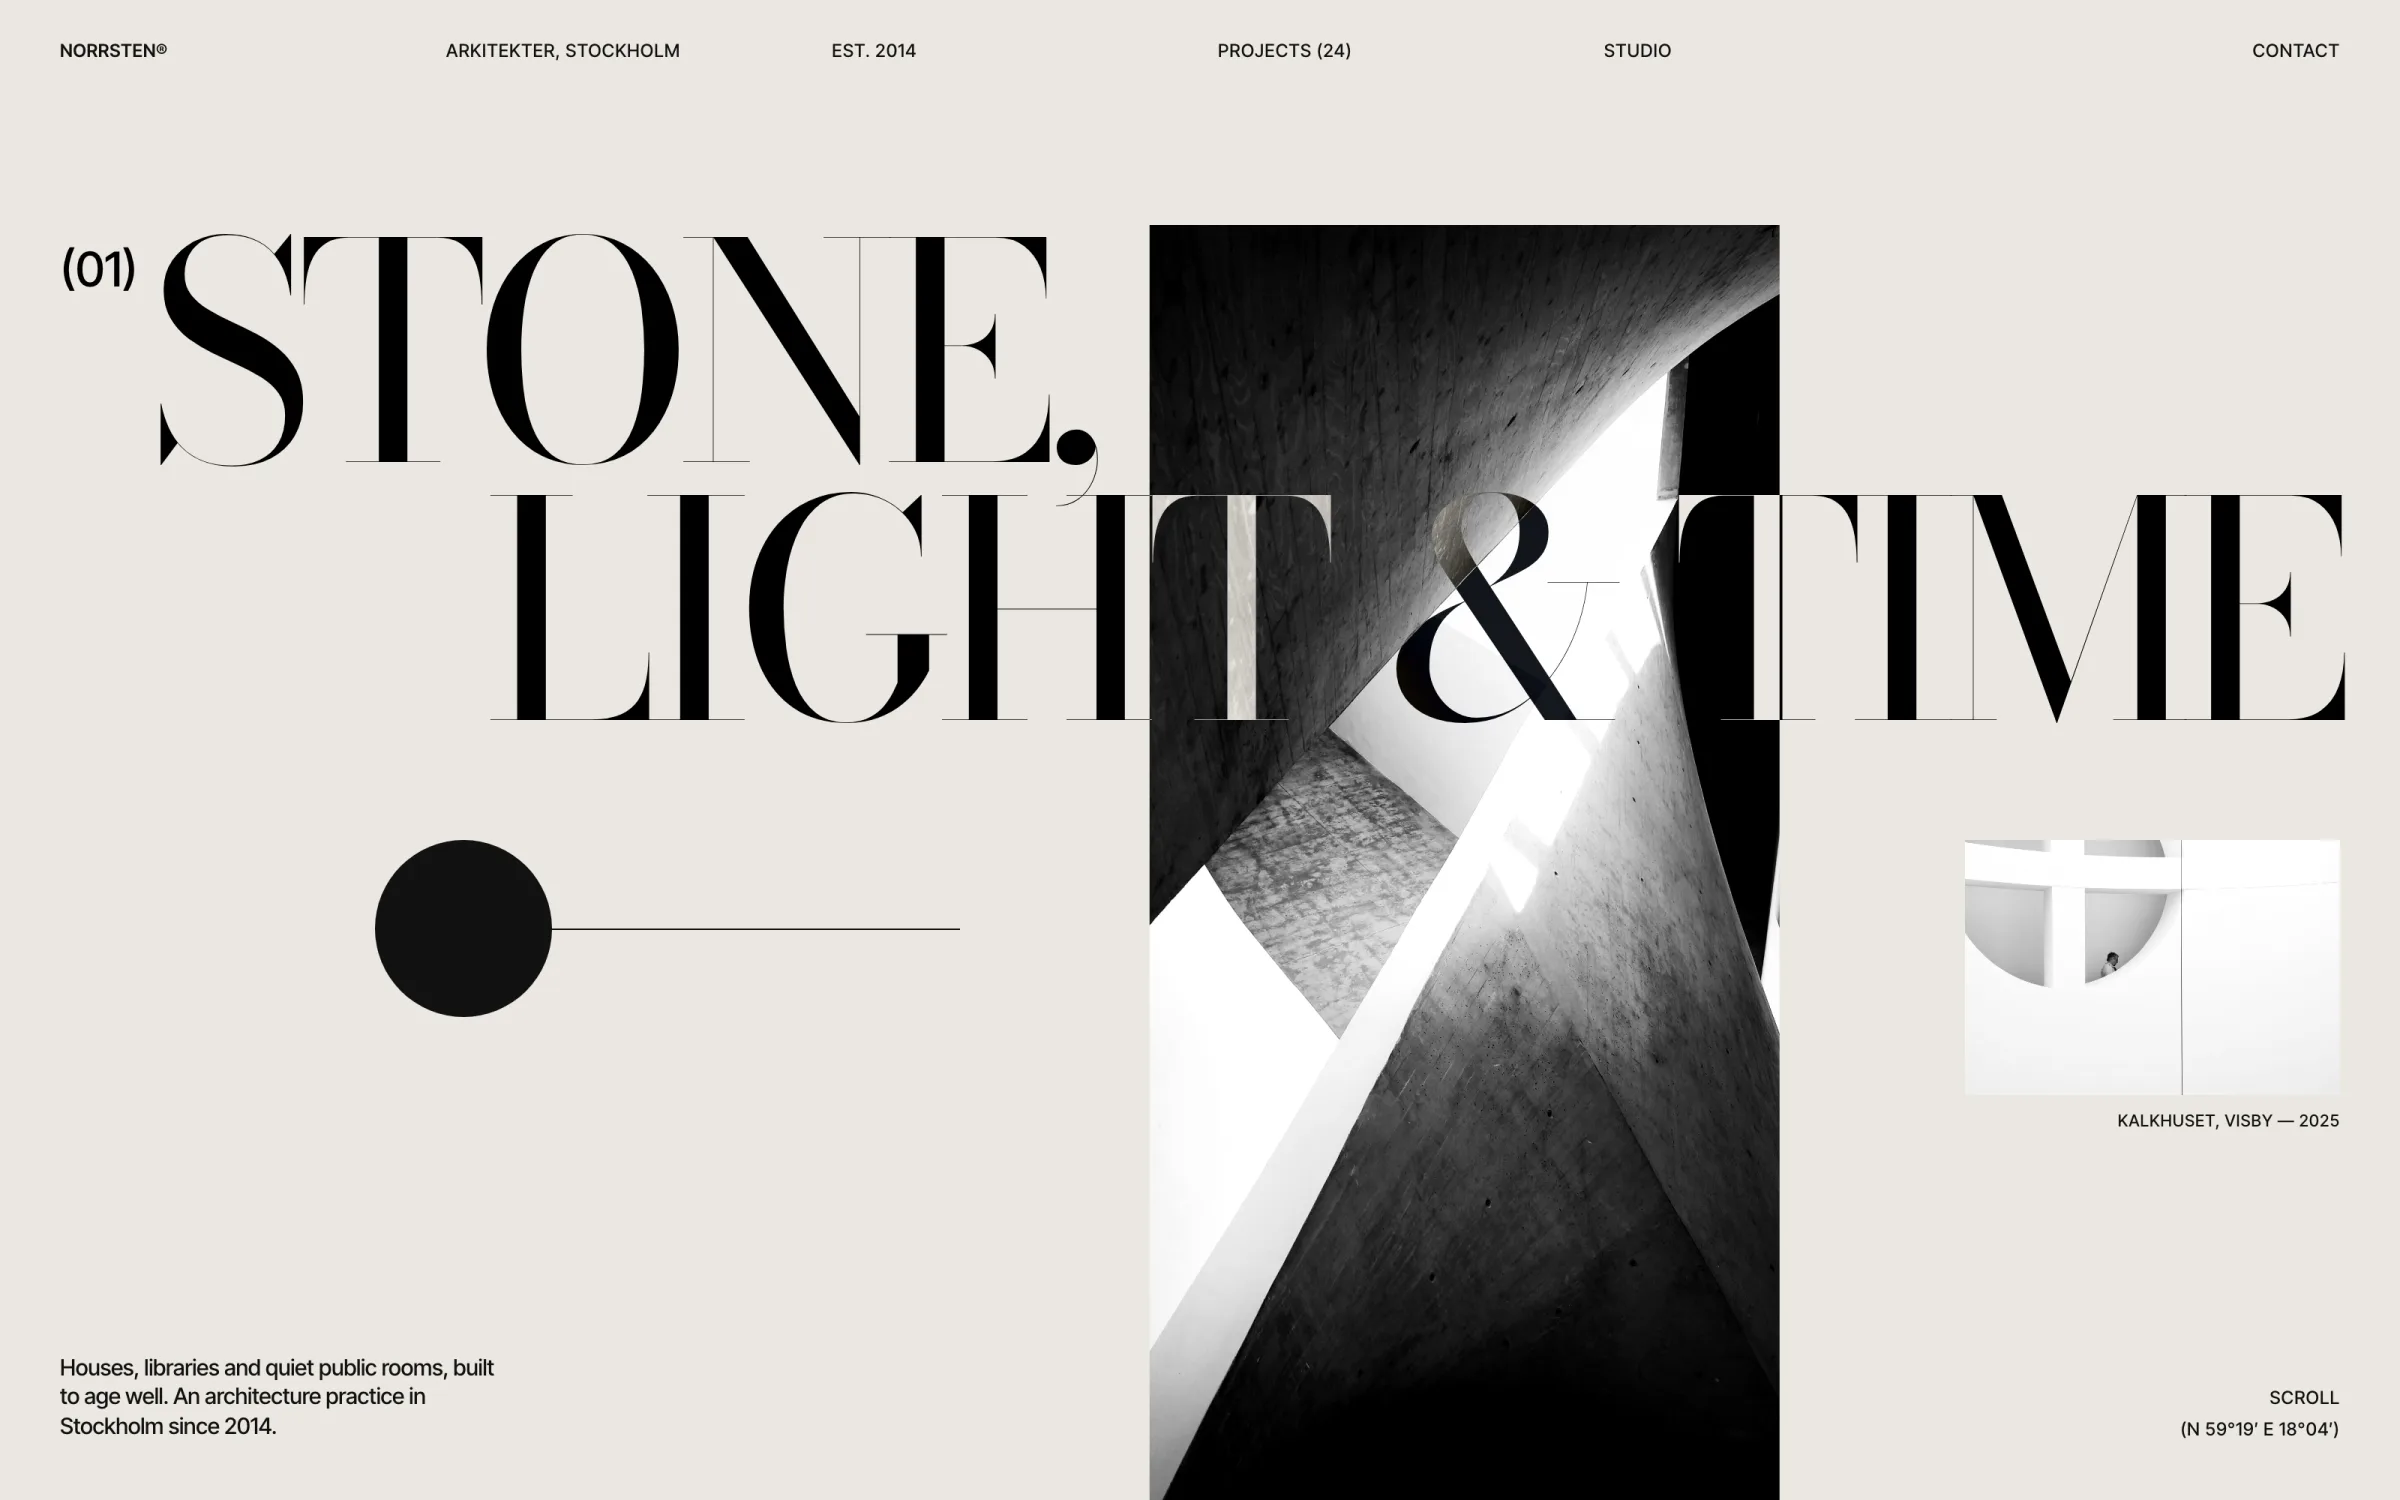
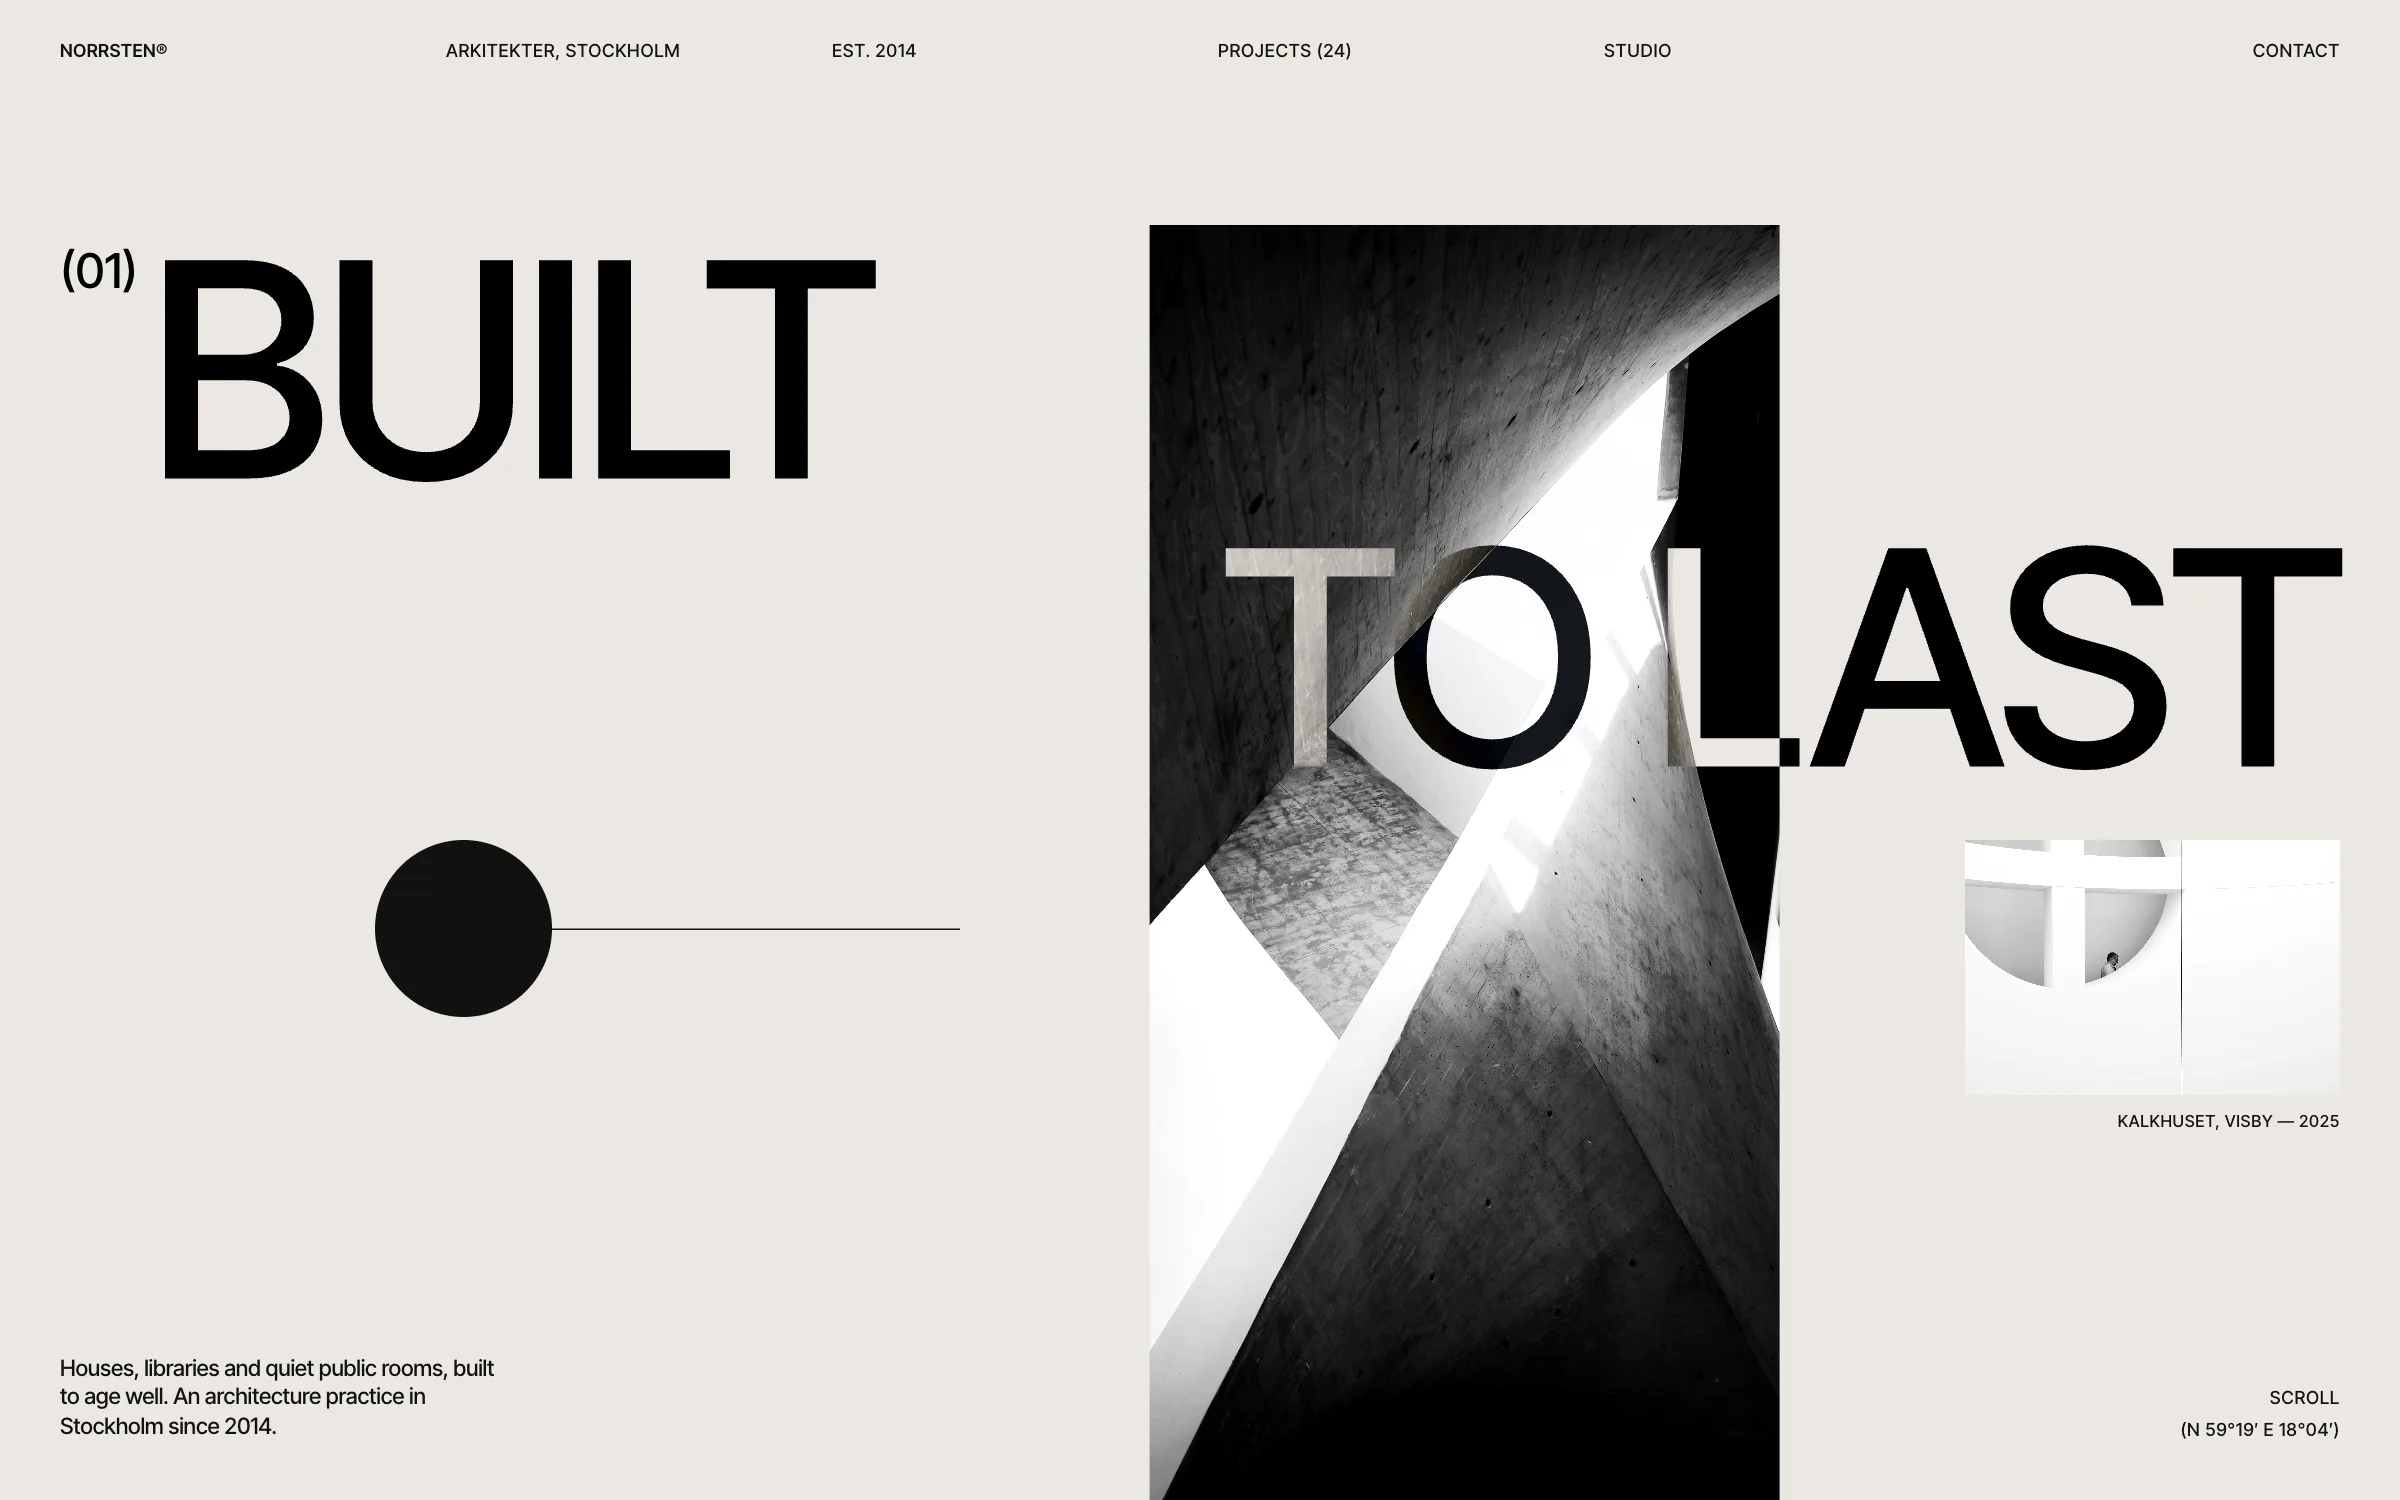
Portfolio v20

diff --git a/work/norrsten/index.html b/work/norrsten/index.html
@@ -6,8 +6,8 @@
   <title>Norrsten — Studio Milad</title>
   <meta name="description" content="Norrsten Arkitekter: concept identity and website for a Stockholm architecture practice. Studio Milad, 2026.">
   <meta name="theme-color" content="#060404">
-  <link rel="stylesheet" href="../../css/style.css?v=18">
-  <link rel="stylesheet" href="../../css/case.css?v=5">
+  <link rel="stylesheet" href="../../css/style.css?v=20">
+  <link rel="stylesheet" href="../../css/case.css?v=6">
   <script>
     // a reload always starts at the top: no restored scroll position, no jump to a #section
     if ('scrollRestoration' in history) history.scrollRestoration = 'manual';
@@ -35,7 +35,7 @@
       <a class="case__back" href="../../#work">↖ Back</a>
 
       <h1 class="case__title"><span class="case__mask"><span>Norrsten</span></span><sup class="case__year">2026</sup></h1>
-      <p class="case__lede">Stone, light and time. A concept identity and website for a Stockholm architecture practice that builds houses and public rooms meant to age well.</p>
+      <p class="case__lede">Built to last. A concept identity and website for a Stockholm architecture practice that builds houses and public rooms meant to age well.</p>
 
       <dl class="case__meta">
         <div><dt>Client</dt><dd>Norrsten Arkitekter (concept)</dd></div>
@@ -51,11 +51,11 @@
         </div>
         <div class="case__part">
           <h2 class="case__label">(The <em>idea</em>)</h2>
-          <p>Build the website the way Norrsten builds houses: few materials, chosen to last. Only black-and-white photography, warm paper instead of white, and a high-contrast Didone set huge in capitals that turns negative where it crosses an image, like light falling across stone.</p>
+          <p>Build the website the way Norrsten builds houses: few materials, chosen to last. Only black-and-white photography, warm paper instead of white, and one typeface throughout, set huge in tight capitals that turn negative where they cross an image, like light falling across stone.</p>
         </div>
         <div class="case__part">
           <h2 class="case__label">(The <em>solution</em>)</h2>
-          <p>An editorial site with two voices: Bodoni Moda capitals for the big statements, a tight grotesk for everything you read and click. The front page says the practice in three words. The project index is a list you scan by place and year, and every project opens with its facts (location, year, area, status) before a word of prose. A process page shows how a house begins, from a day on site to a sun-path study and plaster models, and every layout was drawn for the phone too.</p>
+          <p>An editorial site in a single grotesk, Inter Tight: large and plainly set for the statements, small and calm for everything you read and click. The front page says the practice in three words. The project index is a list you scan by place and year, and every project opens with its facts (location, year, area, status) before a word of prose. A process page shows how a house begins, from a day on site to a sun-path study and plaster models, and every layout was drawn for the phone too.</p>
         </div>
       </div>
 
@@ -65,23 +65,23 @@
     <!-- gallery (luke-baffait: thumbnails scroll past, the one in the middle grows and fills the big frame) -->
     <section class="case__gallery" aria-label="Images">
       <div class="case__thumbs"><div class="case__thumbs-in">
-        <button type="button" aria-label="Front page"><img src="../../assets/img/work/norrsten/01-home.webp" alt=""></button>
-        <button type="button" aria-label="Project index"><img src="../../assets/img/work/norrsten/02-projects.webp" alt=""></button>
-        <button type="button" aria-label="Project page"><img src="../../assets/img/work/norrsten/03-project.webp" alt=""></button>
-        <button type="button" aria-label="Process page"><img src="../../assets/img/work/norrsten/04-process.webp" alt=""></button>
-        <button type="button" aria-label="Phones"><img src="../../assets/img/work/norrsten/05-phones.webp" alt=""></button>
+        <button type="button" aria-label="Front page"><img src="../../assets/img/work/norrsten/01-home.webp?v=2" alt=""></button>
+        <button type="button" aria-label="Project index"><img src="../../assets/img/work/norrsten/02-projects.webp?v=2" alt=""></button>
+        <button type="button" aria-label="Project page"><img src="../../assets/img/work/norrsten/03-project.webp?v=2" alt=""></button>
+        <button type="button" aria-label="Process page"><img src="../../assets/img/work/norrsten/04-process.webp?v=2" alt=""></button>
+        <button type="button" aria-label="Phones"><img src="../../assets/img/work/norrsten/05-phones.webp?v=2" alt=""></button>
       </div></div>
       <figure class="case__sel">
-        <img src="../../assets/img/work/norrsten/01-home.webp" alt="Norrsten front page: STONE, LIGHT &amp; TIME over a black-and-white photograph">
-        <img src="../../assets/img/work/norrsten/01-home.webp" alt="" aria-hidden="true">
+        <img src="../../assets/img/work/norrsten/01-home.webp?v=2" alt="Norrsten front page: STONE, LIGHT &amp; TIME over a black-and-white photograph">
+        <img src="../../assets/img/work/norrsten/01-home.webp?v=2" alt="" aria-hidden="true">
       </figure>
       <!-- phones: the images one after another -->
       <div class="case__stack">
-        <img src="../../assets/img/work/norrsten/01-home.webp" alt="Front page" loading="lazy">
-        <img src="../../assets/img/work/norrsten/02-projects.webp" alt="Project index" loading="lazy">
-        <img src="../../assets/img/work/norrsten/03-project.webp" alt="Project page" loading="lazy">
-        <img src="../../assets/img/work/norrsten/04-process.webp" alt="Process page" loading="lazy">
-        <img src="../../assets/img/work/norrsten/05-phones.webp" alt="The site on phones" loading="lazy">
+        <img src="../../assets/img/work/norrsten/01-home.webp?v=2" alt="Front page" loading="lazy">
+        <img src="../../assets/img/work/norrsten/02-projects.webp?v=2" alt="Project index" loading="lazy">
+        <img src="../../assets/img/work/norrsten/03-project.webp?v=2" alt="Project page" loading="lazy">
+        <img src="../../assets/img/work/norrsten/04-process.webp?v=2" alt="Process page" loading="lazy">
+        <img src="../../assets/img/work/norrsten/05-phones.webp?v=2" alt="The site on phones" loading="lazy">
       </div>
     </section>
   </main>

diff --git a/index.html b/index.html
@@ -6,8 +6,8 @@
   <title>Studio Milad — Art Direction, UX &amp; iOS</title>
   <meta name="description" content="Studio Milad. Milad Amini, art director, UX designer and iOS developer in Malmö.">
   <meta name="theme-color" content="#060404">
-  <link rel="stylesheet" href="css/style.css?v=18">
-  <link rel="stylesheet" href="css/case.css?v=5">
+  <link rel="stylesheet" href="css/style.css?v=20">
+  <link rel="stylesheet" href="css/case.css?v=6">
   <script>
     // a reload always starts at the top: no restored scroll position, no jump to a #section
     if ('scrollRestoration' in history) history.scrollRestoration = 'manual';
@@ -105,7 +105,7 @@
       <div class="wl">
         <div class="wl__list">
           <a class="wl__item" href="work/folierakoket/" data-img="assets/img/work/folierakoket/01-hero.webp" data-date="11 2026">Foliera Köket</a>
-          <a class="wl__item" href="work/norrsten/" data-img="assets/img/work/norrsten/01-home.webp" data-date="11 2026">Norrsten</a>
+          <a class="wl__item" href="work/norrsten/" data-img="assets/img/work/norrsten/01-home.webp?v=2" data-date="11 2026">Norrsten</a>
         </div>
         <div class="wl__preview" aria-hidden="true">
           <a class="wl__card" href="work/folierakoket/" tabindex="-1">
@@ -236,8 +236,8 @@
   <script src="https://cdn.jsdelivr.net/npm/gsap@3.13.0/dist/gsap.min.js"></script>
   <script src="https://cdn.jsdelivr.net/npm/gsap@3.13.0/dist/ScrollTrigger.min.js"></script>
   <script src="https://cdn.jsdelivr.net/npm/lenis@1.1.20/dist/lenis.min.js"></script>
-  <script src="js/gradient.js?v=12"></script>
+  <script src="js/gradient.js?v=20"></script>
   <script src="js/transition.js?v=1"></script>
-  <script src="js/main.js?v=19"></script>
+  <script src="js/main.js?v=20"></script>
 </body>
 </html>

diff --git a/css/style.css b/css/style.css
@@ -101,7 +101,9 @@ html.lenis, html.lenis body { height: auto; }
   color: #fff;
   pointer-events: none;
 }
-.topnav .logo { opacity: 0; transition: opacity 0.5s var(--curve); }
+.topnav .logo { pointer-events: auto; }
+.js .topnav .logo { visibility: hidden; }             /* until the intro brings it in */
+.hero__head .logo { visibility: hidden !important; }  /* the fixed one sits right on top of these */
 .topnav__links {
   display: flex;
   gap: var(--s3);
@@ -110,7 +112,6 @@ html.lenis, html.lenis body { height: auto; }
   transition: opacity 0.5s var(--curve), visibility 0s;
 }
 .topnav.is-on { pointer-events: auto; }
-.topnav.is-on .logo { opacity: 1; }
 /* never shown: the intro's autoAlpha on the bar's children would make it visible, and two white
    copies blending (difference) cancel out into outlines */
 .hero__nav { visibility: hidden !important; opacity: 0 !important; }
@@ -374,7 +375,9 @@ html.lenis, html.lenis body { height: auto; }
   position: sticky;
   top: 0;
   height: 100svh;
+  height: 100lvh;
   margin-bottom: -100svh;
+  margin-bottom: -100lvh;
   overflow: hidden;
 }
 .foot__gl { display: block; width: 100%; height: 100%; }
@@ -458,6 +461,7 @@ html.lenis, html.lenis body { height: auto; }
 .foot__end {
   position: relative;
   height: 100svh;
+  height: 100lvh;
   min-height: 560px;
   display: flex;
   flex-direction: column;
@@ -465,6 +469,7 @@ html.lenis, html.lenis body { height: auto; }
   overflow: hidden;                     /* the letters start below the screen: never let them make the page taller */
 }
 .foot__name { margin-top: auto; }
+@supports (height: 100dvh) { .foot__end { padding-bottom: calc(100lvh - 100dvh); } }
 .foot__bar .hero__down { white-space: nowrap; }
 .shuf .char { opacity: 0; }
 

diff --git a/js/main.js b/js/main.js
@@ -151,6 +151,7 @@
     $$('.shuf .char').forEach((c) => (c.style.opacity = 1));
     $$('.skills__group li').forEach((li) => li.classList.add('is-on'));
     $('.topnav__links').style.visibility = 'visible';
+    $('.topnav .logo').style.visibility = 'visible';
     window.pageArrive && window.pageArrive();
     return;
   }
@@ -177,6 +178,9 @@
       filter: 'blur(8px)',
       duration: PHI,
       stagger: 0.04,
+    }, 1 / PHI ** 2)
+    .from('.topnav .logo', {
+      yPercent: 110, autoAlpha: 0, rotate: 6, transformOrigin: '0% 100%', filter: 'blur(8px)', duration: PHI,
     }, 1 / PHI ** 2)
     .from(['.hero > .hero__bar > :not(.hero__nav)', '.topnav__links a'], { autoAlpha: 0, duration: 1, ease: 'sine.out' }, PHI)
     .set('.topnav__links', { visibility: 'visible' }, PHI)

diff --git a/work/folierakoket/index.html b/work/folierakoket/index.html
@@ -6,8 +6,8 @@
   <title>Foliera Köket — Studio Milad</title>
   <meta name="description" content="Foliera Köket: art direction, UX, design and development of a trilingual site with a kitchen configurator. Studio Milad, 2026.">
   <meta name="theme-color" content="#060404">
-  <link rel="stylesheet" href="../../css/style.css?v=18">
-  <link rel="stylesheet" href="../../css/case.css?v=5">
+  <link rel="stylesheet" href="../../css/style.css?v=20">
+  <link rel="stylesheet" href="../../css/case.css?v=6">
   <script>
     // a reload always starts at the top: no restored scroll position, no jump to a #section
     if ('scrollRestoration' in history) history.scrollRestoration = 'manual';

diff --git a/css/case.css b/css/case.css
@@ -227,7 +227,7 @@
 .wl__cursor.is-on { opacity: 1; }
 @media (max-width: 860px) {
   .wl { display: block; min-height: 0; }
-  .wl__list { position: relative; height: auto; }
+  .wl__list { position: relative; height: auto; padding: 0; }
   .wl__item { white-space: normal; font-size: clamp(28px, 8vw, 40px); color: var(--fg); }
   .wl__preview, .wl__cursor { display: none; }
 }
